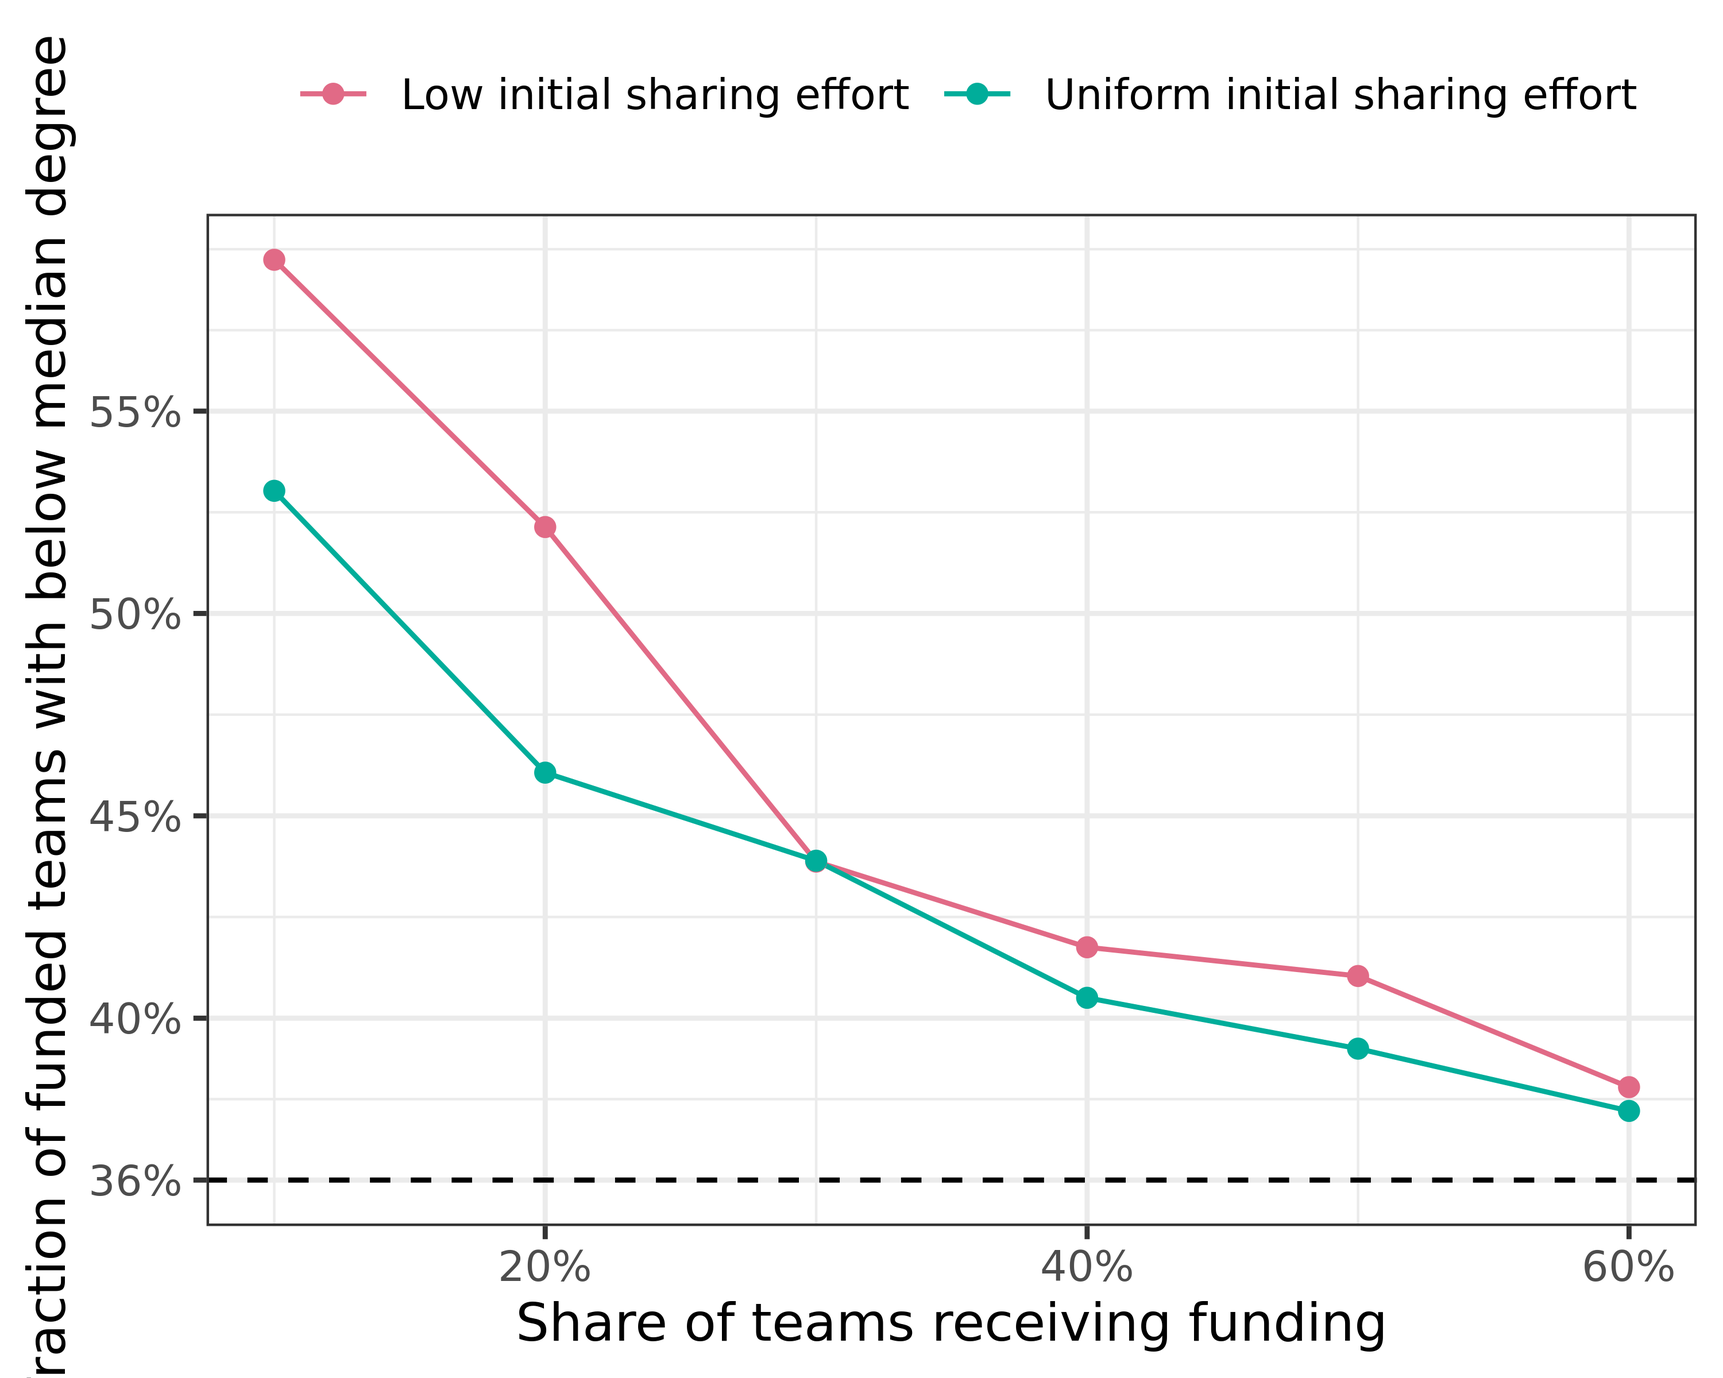
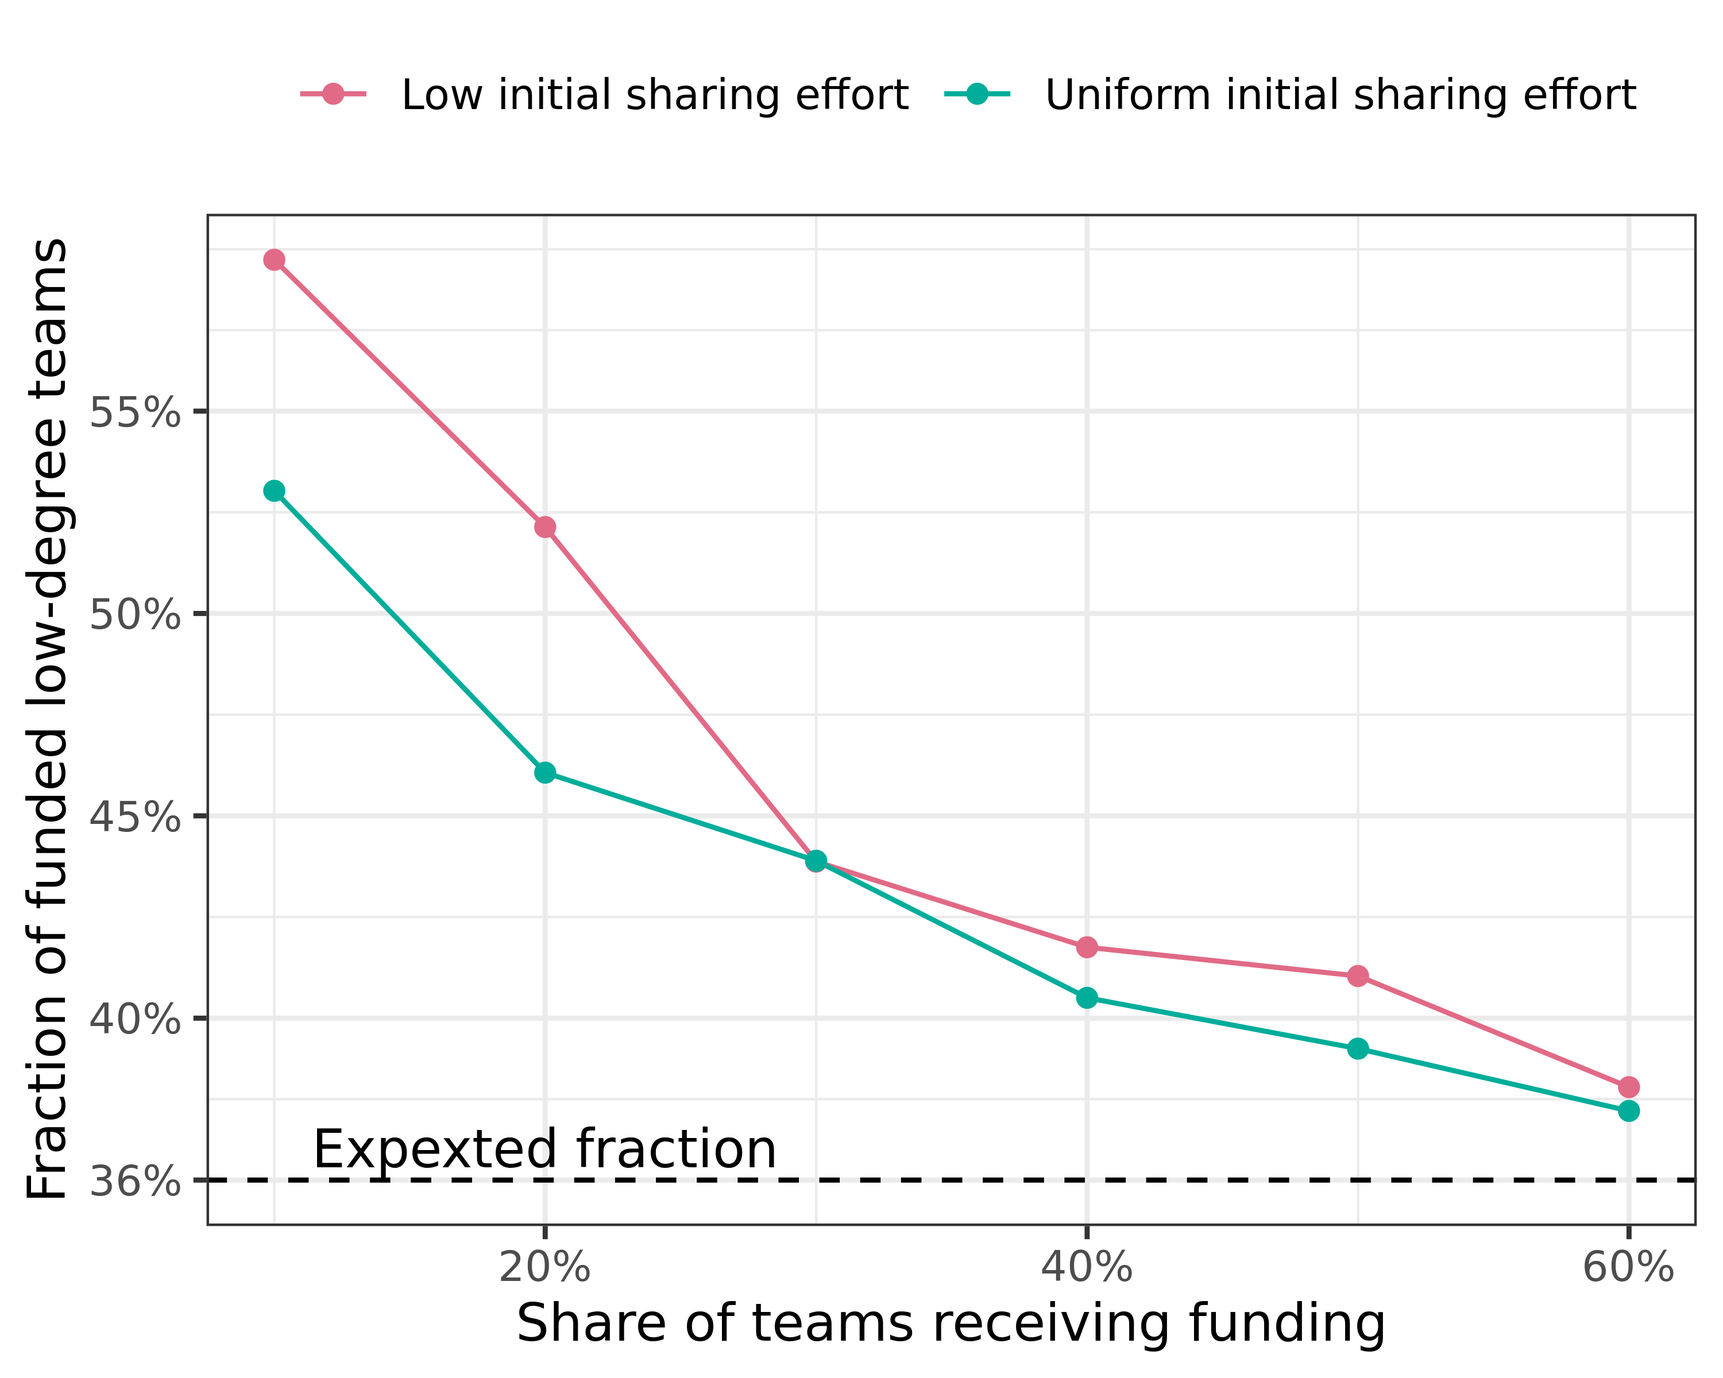
knit

diff --git a/analysis/04-funder-selectivity-individual-data.html b/analysis/04-funder-selectivity-individual-data.html
@@ -741,11 +741,13 @@ the `.groups` argument.</code></pre>
 <span id="cb38-5"><a href="#cb38-5" aria-hidden="true" tabindex="-1"></a>  <span class="fu">filter</span>(is_low_degree) <span class="sc">%&gt;%</span> </span>
 <span id="cb38-6"><a href="#cb38-6" aria-hidden="true" tabindex="-1"></a>  <span class="fu">pull</span>(n)</span>
 <span id="cb38-7"><a href="#cb38-7" aria-hidden="true" tabindex="-1"></a></span>
-<span id="cb38-8"><a href="#cb38-8" aria-hidden="true" tabindex="-1"></a><span class="fu">plot_skeleton</span>(low_degree_hypothesis, mean_frac_low_degree_funded) <span class="sc">+</span></span>
+<span id="cb38-8"><a href="#cb38-8" aria-hidden="true" tabindex="-1"></a>p1 <span class="ot">&lt;-</span> <span class="fu">plot_skeleton</span>(low_degree_hypothesis, mean_frac_low_degree_funded) <span class="sc">+</span></span>
 <span id="cb38-9"><a href="#cb38-9" aria-hidden="true" tabindex="-1"></a>  <span class="fu">geom_hline</span>(<span class="at">yintercept =</span> true_fraction, <span class="at">linetype =</span> <span class="dv">2</span>) <span class="sc">+</span></span>
-<span id="cb38-10"><a href="#cb38-10" aria-hidden="true" tabindex="-1"></a>  <span class="fu">scale_y_continuous</span>(<span class="at">breaks =</span> <span class="fu">c</span>(true_fraction, <span class="fu">seq</span>(.<span class="dv">4</span>, <span class="at">to =</span> .<span class="dv">55</span>, <span class="at">by =</span> .<span class="dv">05</span>)),</span>
+<span id="cb38-10"><a href="#cb38-10" aria-hidden="true" tabindex="-1"></a>  <span class="fu">scale_y_continuous</span>(<span class="at">breaks =</span> <span class="fu">c</span>(true_fraction, <span class="fu">seq</span>(.<span class="dv">4</span>, <span class="at">to =</span> .<span class="dv">6</span>, <span class="at">by =</span> .<span class="dv">05</span>)),</span>
 <span id="cb38-11"><a href="#cb38-11" aria-hidden="true" tabindex="-1"></a>                     <span class="at">labels =</span> scales<span class="sc">::</span><span class="fu">label_percent</span>()) <span class="sc">+</span></span>
-<span id="cb38-12"><a href="#cb38-12" aria-hidden="true" tabindex="-1"></a>  <span class="fu">labs</span>(<span class="at">y =</span> <span class="st">"Fraction of funded teams with below median degree"</span>)</span></code><button title="Copy to Clipboard" class="code-copy-button"><i class="bi"></i></button></pre></div>
+<span id="cb38-12"><a href="#cb38-12" aria-hidden="true" tabindex="-1"></a>  <span class="fu">annotate</span>(<span class="st">"text"</span>, <span class="at">x =</span> .<span class="dv">2</span>, <span class="at">y =</span> .<span class="dv">368</span>, <span class="at">label =</span> <span class="st">"Expexted fraction"</span>) <span class="sc">+</span></span>
+<span id="cb38-13"><a href="#cb38-13" aria-hidden="true" tabindex="-1"></a>  <span class="fu">labs</span>(<span class="at">y =</span> <span class="st">"Fraction of funded low-degree teams"</span>)</span>
+<span id="cb38-14"><a href="#cb38-14" aria-hidden="true" tabindex="-1"></a>p1</span></code><button title="Copy to Clipboard" class="code-copy-button"><i class="bi"></i></button></pre></div>
 </details>
 <div class="cell-output-display">
 <div id="fig-low-degree-frac" class="quarto-figure quarto-figure-center anchored">
@@ -780,11 +782,13 @@ the `.groups` argument.</code></pre>
 <div class="cell">
 <details>
 <summary>Code</summary>
-<div class="sourceCode cell-code" id="cb41"><pre class="sourceCode r code-with-copy"><code class="sourceCode r"><span id="cb41-1"><a href="#cb41-1" aria-hidden="true" tabindex="-1"></a><span class="fu">plot_skeleton</span>(low_degree_hypothesis_sharing, mean_frac_low_degree_sharing) <span class="sc">+</span></span>
+<div class="sourceCode cell-code" id="cb41"><pre class="sourceCode r code-with-copy"><code class="sourceCode r"><span id="cb41-1"><a href="#cb41-1" aria-hidden="true" tabindex="-1"></a>p2 <span class="ot">&lt;-</span> <span class="fu">plot_skeleton</span>(low_degree_hypothesis_sharing, mean_frac_low_degree_sharing) <span class="sc">+</span></span>
 <span id="cb41-2"><a href="#cb41-2" aria-hidden="true" tabindex="-1"></a>  <span class="fu">geom_hline</span>(<span class="at">yintercept =</span> true_fraction, <span class="at">linetype =</span> <span class="dv">2</span>) <span class="sc">+</span></span>
-<span id="cb41-3"><a href="#cb41-3" aria-hidden="true" tabindex="-1"></a>  <span class="fu">scale_y_continuous</span>(<span class="at">breaks =</span> <span class="fu">c</span>(true_fraction, <span class="fu">seq</span>(.<span class="dv">4</span>, <span class="at">to =</span> .<span class="dv">55</span>, <span class="at">by =</span> .<span class="dv">05</span>)),</span>
+<span id="cb41-3"><a href="#cb41-3" aria-hidden="true" tabindex="-1"></a>  <span class="fu">scale_y_continuous</span>(<span class="at">breaks =</span> <span class="fu">c</span>(true_fraction, <span class="fu">seq</span>(.<span class="dv">4</span>, <span class="at">to =</span> .<span class="dv">6</span>, <span class="at">by =</span> .<span class="dv">05</span>)),</span>
 <span id="cb41-4"><a href="#cb41-4" aria-hidden="true" tabindex="-1"></a>                     <span class="at">labels =</span> scales<span class="sc">::</span><span class="fu">label_percent</span>()) <span class="sc">+</span></span>
-<span id="cb41-5"><a href="#cb41-5" aria-hidden="true" tabindex="-1"></a>  <span class="fu">labs</span>(<span class="at">y =</span> <span class="st">"Fraction of teams sharing data</span><span class="sc">\n</span><span class="st">with below median degree"</span>)</span></code><button title="Copy to Clipboard" class="code-copy-button"><i class="bi"></i></button></pre></div>
+<span id="cb41-5"><a href="#cb41-5" aria-hidden="true" tabindex="-1"></a>  <span class="fu">annotate</span>(<span class="st">"text"</span>, <span class="at">x =</span> .<span class="dv">2</span>, <span class="at">y =</span> .<span class="dv">368</span>, <span class="at">label =</span> <span class="st">"Expexted fraction"</span>) <span class="sc">+</span></span>
+<span id="cb41-6"><a href="#cb41-6" aria-hidden="true" tabindex="-1"></a>  <span class="fu">labs</span>(<span class="at">y =</span> <span class="st">"Fraction of data sharing low-degree teams"</span>)</span>
+<span id="cb41-7"><a href="#cb41-7" aria-hidden="true" tabindex="-1"></a>p2</span></code><button title="Copy to Clipboard" class="code-copy-button"><i class="bi"></i></button></pre></div>
 </details>
 <div class="cell-output-display">
 <div id="fig-low-degree-frac-sharing" class="quarto-figure quarto-figure-center anchored">
@@ -798,35 +802,52 @@ the `.groups` argument.</code></pre>
 <div class="cell">
 <details>
 <summary>Code</summary>
-<div class="sourceCode cell-code" id="cb42"><pre class="sourceCode r code-with-copy"><code class="sourceCode r"><span id="cb42-1"><a href="#cb42-1" aria-hidden="true" tabindex="-1"></a><span class="co"># THE CODE BELOW DOES NOT WORK CURRENTLY</span></span>
-<span id="cb42-2"><a href="#cb42-2" aria-hidden="true" tabindex="-1"></a><span class="co"># we cannot do a grouped chisquare in spark directly, therefore using spark_apply</span></span>
-<span id="cb42-3"><a href="#cb42-3" aria-hidden="true" tabindex="-1"></a>test_fun <span class="ot">&lt;-</span> <span class="cf">function</span>(df) {</span>
-<span id="cb42-4"><a href="#cb42-4" aria-hidden="true" tabindex="-1"></a>  res <span class="ot">&lt;-</span> <span class="fu">chisq.test</span>(df<span class="sc">$</span>funded, df<span class="sc">$</span>is_low_degree)</span>
-<span id="cb42-5"><a href="#cb42-5" aria-hidden="true" tabindex="-1"></a>  broom<span class="sc">::</span><span class="fu">tidy</span>(res)</span>
-<span id="cb42-6"><a href="#cb42-6" aria-hidden="true" tabindex="-1"></a>}</span>
-<span id="cb42-7"><a href="#cb42-7" aria-hidden="true" tabindex="-1"></a></span>
-<span id="cb42-8"><a href="#cb42-8" aria-hidden="true" tabindex="-1"></a>chisquare_res <span class="ot">&lt;-</span> funding_status <span class="sc">%&gt;%</span> </span>
-<span id="cb42-9"><a href="#cb42-9" aria-hidden="true" tabindex="-1"></a>  <span class="co"># head(1000) %&gt;%</span></span>
-<span id="cb42-10"><a href="#cb42-10" aria-hidden="true" tabindex="-1"></a>  <span class="fu">left_join</span>(fragmented_centrality, <span class="at">by =</span> <span class="st">"who"</span>) <span class="sc">%&gt;%</span> </span>
-<span id="cb42-11"><a href="#cb42-11" aria-hidden="true" tabindex="-1"></a>  <span class="fu">spark_apply</span>(test_fun, </span>
-<span id="cb42-12"><a href="#cb42-12" aria-hidden="true" tabindex="-1"></a>              <span class="at">columns =</span> <span class="fu">c</span>(<span class="st">"maxinitialutility"</span>, <span class="st">"fundedshare"</span>, <span class="st">"run_number"</span>, </span>
-<span id="cb42-13"><a href="#cb42-13" aria-hidden="true" tabindex="-1"></a>                          <span class="st">"step"</span>)) <span class="sc">%&gt;%</span> </span>
-<span id="cb42-14"><a href="#cb42-14" aria-hidden="true" tabindex="-1"></a>  <span class="fu">group_by</span>(maxinitialutility, fundedshare) <span class="sc">%&gt;%</span> </span>
-<span id="cb42-15"><a href="#cb42-15" aria-hidden="true" tabindex="-1"></a>  <span class="fu">summarise</span>(<span class="at">mean_statistic =</span> <span class="fu">mean</span>(statistic),</span>
-<span id="cb42-16"><a href="#cb42-16" aria-hidden="true" tabindex="-1"></a>            <span class="at">mean_p =</span> <span class="fu">mean</span>(p.value)) <span class="sc">%&gt;%</span> </span>
-<span id="cb42-17"><a href="#cb42-17" aria-hidden="true" tabindex="-1"></a>  <span class="fu">collect</span>()</span>
-<span id="cb42-18"><a href="#cb42-18" aria-hidden="true" tabindex="-1"></a></span>
-<span id="cb42-19"><a href="#cb42-19" aria-hidden="true" tabindex="-1"></a><span class="co"># We could also run it like this, but it does not do grouped tests, only executes on everything</span></span>
-<span id="cb42-20"><a href="#cb42-20" aria-hidden="true" tabindex="-1"></a><span class="co">#   group_by(maxinitialutility, fundedshare, run_number, step) %&gt;% </span></span>
-<span id="cb42-21"><a href="#cb42-21" aria-hidden="true" tabindex="-1"></a><span class="co">#   mutate(is_low_degree = as.character(is_low_degree),</span></span>
-<span id="cb42-22"><a href="#cb42-22" aria-hidden="true" tabindex="-1"></a><span class="co">#          funded = as.character(funded)) %&gt;% </span></span>
-<span id="cb42-23"><a href="#cb42-23" aria-hidden="true" tabindex="-1"></a><span class="co">#   ml_chisquare_test(features = "is_low_degree", label = "funded")</span></span></code><button title="Copy to Clipboard" class="code-copy-button"><i class="bi"></i></button></pre></div>
+<div class="sourceCode cell-code" id="cb42"><pre class="sourceCode r code-with-copy"><code class="sourceCode r"><span id="cb42-1"><a href="#cb42-1" aria-hidden="true" tabindex="-1"></a>p1 <span class="sc">+</span> <span class="fu">labs</span>(<span class="at">y =</span> <span class="st">"Funded teams"</span>) <span class="sc">+</span> </span>
+<span id="cb42-2"><a href="#cb42-2" aria-hidden="true" tabindex="-1"></a>  p2 <span class="sc">+</span> <span class="fu">labs</span>(<span class="at">y =</span> <span class="st">"Sharing teams"</span>) <span class="sc">+</span></span>
+<span id="cb42-3"><a href="#cb42-3" aria-hidden="true" tabindex="-1"></a>  <span class="fu">plot_layout</span>(<span class="at">guides =</span> <span class="st">"collect"</span>) <span class="sc">+</span> </span>
+<span id="cb42-4"><a href="#cb42-4" aria-hidden="true" tabindex="-1"></a>  <span class="fu">plot_annotation</span>(<span class="at">tag_levels =</span> <span class="st">"A"</span>) <span class="sc">&amp;</span> <span class="fu">theme</span>(<span class="at">legend.position =</span> <span class="st">"top"</span>)</span></code><button title="Copy to Clipboard" class="code-copy-button"><i class="bi"></i></button></pre></div>
+</details>
+<div class="cell-output-display">
+<div id="fig-low-degree-sharing-and-funding" class="quarto-figure quarto-figure-center anchored">
+<figure class="figure">
+<p><img src="04-funder-selectivity-individual-data_files/figure-html/fig-low-degree-sharing-and-funding-1.png" class="img-fluid figure-img" width="2400"></p>
+<p></p><figcaption class="figure-caption">Figure&nbsp;3: Fractions of low degree teams who (A) are funded, or (B) share data. Low degree teams are defined as teams with below median degree.</figcaption><p></p>
+</figure>
+</div>
+</div>
+</div>
+<div class="cell">
+<details>
+<summary>Code</summary>
+<div class="sourceCode cell-code" id="cb43"><pre class="sourceCode r code-with-copy"><code class="sourceCode r"><span id="cb43-1"><a href="#cb43-1" aria-hidden="true" tabindex="-1"></a><span class="co"># THE CODE BELOW DOES NOT WORK CURRENTLY</span></span>
+<span id="cb43-2"><a href="#cb43-2" aria-hidden="true" tabindex="-1"></a><span class="co"># we cannot do a grouped chisquare in spark directly, therefore using spark_apply</span></span>
+<span id="cb43-3"><a href="#cb43-3" aria-hidden="true" tabindex="-1"></a>test_fun <span class="ot">&lt;-</span> <span class="cf">function</span>(df) {</span>
+<span id="cb43-4"><a href="#cb43-4" aria-hidden="true" tabindex="-1"></a>  res <span class="ot">&lt;-</span> <span class="fu">chisq.test</span>(df<span class="sc">$</span>funded, df<span class="sc">$</span>is_low_degree)</span>
+<span id="cb43-5"><a href="#cb43-5" aria-hidden="true" tabindex="-1"></a>  broom<span class="sc">::</span><span class="fu">tidy</span>(res)</span>
+<span id="cb43-6"><a href="#cb43-6" aria-hidden="true" tabindex="-1"></a>}</span>
+<span id="cb43-7"><a href="#cb43-7" aria-hidden="true" tabindex="-1"></a></span>
+<span id="cb43-8"><a href="#cb43-8" aria-hidden="true" tabindex="-1"></a>chisquare_res <span class="ot">&lt;-</span> funding_status <span class="sc">%&gt;%</span> </span>
+<span id="cb43-9"><a href="#cb43-9" aria-hidden="true" tabindex="-1"></a>  <span class="co"># head(1000) %&gt;%</span></span>
+<span id="cb43-10"><a href="#cb43-10" aria-hidden="true" tabindex="-1"></a>  <span class="fu">left_join</span>(fragmented_centrality, <span class="at">by =</span> <span class="st">"who"</span>) <span class="sc">%&gt;%</span> </span>
+<span id="cb43-11"><a href="#cb43-11" aria-hidden="true" tabindex="-1"></a>  <span class="fu">spark_apply</span>(test_fun, </span>
+<span id="cb43-12"><a href="#cb43-12" aria-hidden="true" tabindex="-1"></a>              <span class="at">columns =</span> <span class="fu">c</span>(<span class="st">"maxinitialutility"</span>, <span class="st">"fundedshare"</span>, <span class="st">"run_number"</span>, </span>
+<span id="cb43-13"><a href="#cb43-13" aria-hidden="true" tabindex="-1"></a>                          <span class="st">"step"</span>)) <span class="sc">%&gt;%</span> </span>
+<span id="cb43-14"><a href="#cb43-14" aria-hidden="true" tabindex="-1"></a>  <span class="fu">group_by</span>(maxinitialutility, fundedshare) <span class="sc">%&gt;%</span> </span>
+<span id="cb43-15"><a href="#cb43-15" aria-hidden="true" tabindex="-1"></a>  <span class="fu">summarise</span>(<span class="at">mean_statistic =</span> <span class="fu">mean</span>(statistic),</span>
+<span id="cb43-16"><a href="#cb43-16" aria-hidden="true" tabindex="-1"></a>            <span class="at">mean_p =</span> <span class="fu">mean</span>(p.value)) <span class="sc">%&gt;%</span> </span>
+<span id="cb43-17"><a href="#cb43-17" aria-hidden="true" tabindex="-1"></a>  <span class="fu">collect</span>()</span>
+<span id="cb43-18"><a href="#cb43-18" aria-hidden="true" tabindex="-1"></a></span>
+<span id="cb43-19"><a href="#cb43-19" aria-hidden="true" tabindex="-1"></a><span class="co"># We could also run it like this, but it does not do grouped tests, only executes on everything</span></span>
+<span id="cb43-20"><a href="#cb43-20" aria-hidden="true" tabindex="-1"></a><span class="co">#   group_by(maxinitialutility, fundedshare, run_number, step) %&gt;% </span></span>
+<span id="cb43-21"><a href="#cb43-21" aria-hidden="true" tabindex="-1"></a><span class="co">#   mutate(is_low_degree = as.character(is_low_degree),</span></span>
+<span id="cb43-22"><a href="#cb43-22" aria-hidden="true" tabindex="-1"></a><span class="co">#          funded = as.character(funded)) %&gt;% </span></span>
+<span id="cb43-23"><a href="#cb43-23" aria-hidden="true" tabindex="-1"></a><span class="co">#   ml_chisquare_test(features = "is_low_degree", label = "funded")</span></span></code><button title="Copy to Clipboard" class="code-copy-button"><i class="bi"></i></button></pre></div>
 </details>
 </div>
 <div class="cell">
 <details>
 <summary>Code</summary>
-<div class="sourceCode cell-code" id="cb43"><pre class="sourceCode r code-with-copy"><code class="sourceCode r"><span id="cb43-1"><a href="#cb43-1" aria-hidden="true" tabindex="-1"></a><span class="fu">spark_disconnect</span>(sc)</span></code><button title="Copy to Clipboard" class="code-copy-button"><i class="bi"></i></button></pre></div>
+<div class="sourceCode cell-code" id="cb44"><pre class="sourceCode r code-with-copy"><code class="sourceCode r"><span id="cb44-1"><a href="#cb44-1" aria-hidden="true" tabindex="-1"></a><span class="fu">spark_disconnect</span>(sc)</span></code><button title="Copy to Clipboard" class="code-copy-button"><i class="bi"></i></button></pre></div>
 </details>
 </div>
 </section>

diff --git a/analysis/04-funder-selectivity-individual-data.md b/analysis/04-funder-selectivity-individual-data.md
@@ -619,11 +619,13 @@ true_fraction <- fragmented_centrality_local %>%
   filter(is_low_degree) %>% 
   pull(n)
 
-plot_skeleton(low_degree_hypothesis, mean_frac_low_degree_funded) +
+p1 <- plot_skeleton(low_degree_hypothesis, mean_frac_low_degree_funded) +
   geom_hline(yintercept = true_fraction, linetype = 2) +
-  scale_y_continuous(breaks = c(true_fraction, seq(.4, to = .55, by = .05)),
+  scale_y_continuous(breaks = c(true_fraction, seq(.4, to = .6, by = .05)),
                      labels = scales::label_percent()) +
-  labs(y = "Fraction of funded teams with below median degree")
+  annotate("text", x = .2, y = .368, label = "Expexted fraction") +
+  labs(y = "Fraction of funded low-degree teams")
+p1
 ```
 
 ::: {.cell-output-display}
@@ -664,15 +666,31 @@ the `.groups` argument.
 ::: {.cell}
 
 ```{.r .cell-code}
-plot_skeleton(low_degree_hypothesis_sharing, mean_frac_low_degree_sharing) +
+p2 <- plot_skeleton(low_degree_hypothesis_sharing, mean_frac_low_degree_sharing) +
   geom_hline(yintercept = true_fraction, linetype = 2) +
-  scale_y_continuous(breaks = c(true_fraction, seq(.4, to = .55, by = .05)),
+  scale_y_continuous(breaks = c(true_fraction, seq(.4, to = .6, by = .05)),
                      labels = scales::label_percent()) +
-  labs(y = "Fraction of teams sharing data\nwith below median degree")
+  annotate("text", x = .2, y = .368, label = "Expexted fraction") +
+  labs(y = "Fraction of data sharing low-degree teams")
+p2
 ```
 
 ::: {.cell-output-display}
 ![Representation of low-degree teams among teams sharing data. The dashed line indicates the share of teams with low degree in the sample. Values above the dashed line thus signal an over-representation of low-degree teams.](04-funder-selectivity-individual-data_files/figure-html/fig-low-degree-frac-sharing-1.png){#fig-low-degree-frac-sharing width=1500}
+:::
+:::
+
+::: {.cell}
+
+```{.r .cell-code}
+p1 + labs(y = "Funded teams") + 
+  p2 + labs(y = "Sharing teams") +
+  plot_layout(guides = "collect") + 
+  plot_annotation(tag_levels = "A") & theme(legend.position = "top")
+```
+
+::: {.cell-output-display}
+![Fractions of low degree teams who (A) are funded, or (B) share data. Low degree teams are defined as teams with below median degree.](04-funder-selectivity-individual-data_files/figure-html/fig-low-degree-sharing-and-funding-1.png){#fig-low-degree-sharing-and-funding width=2400}
 :::
 :::
 
